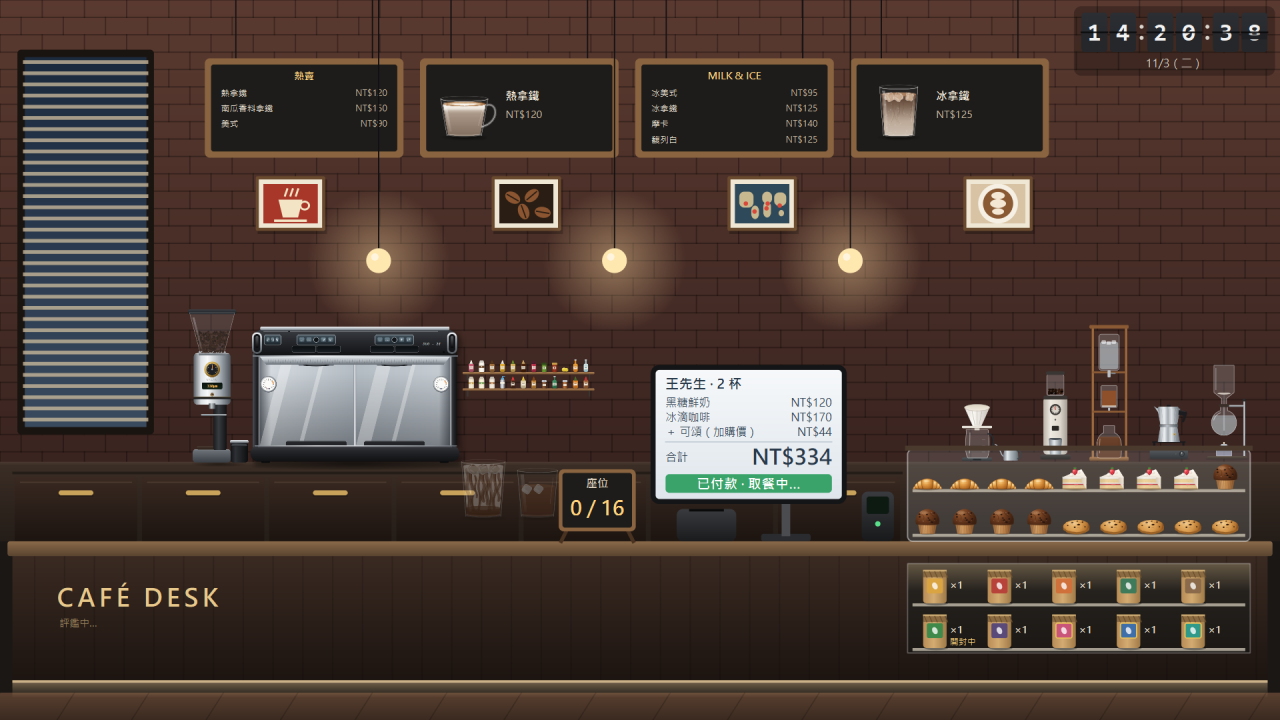
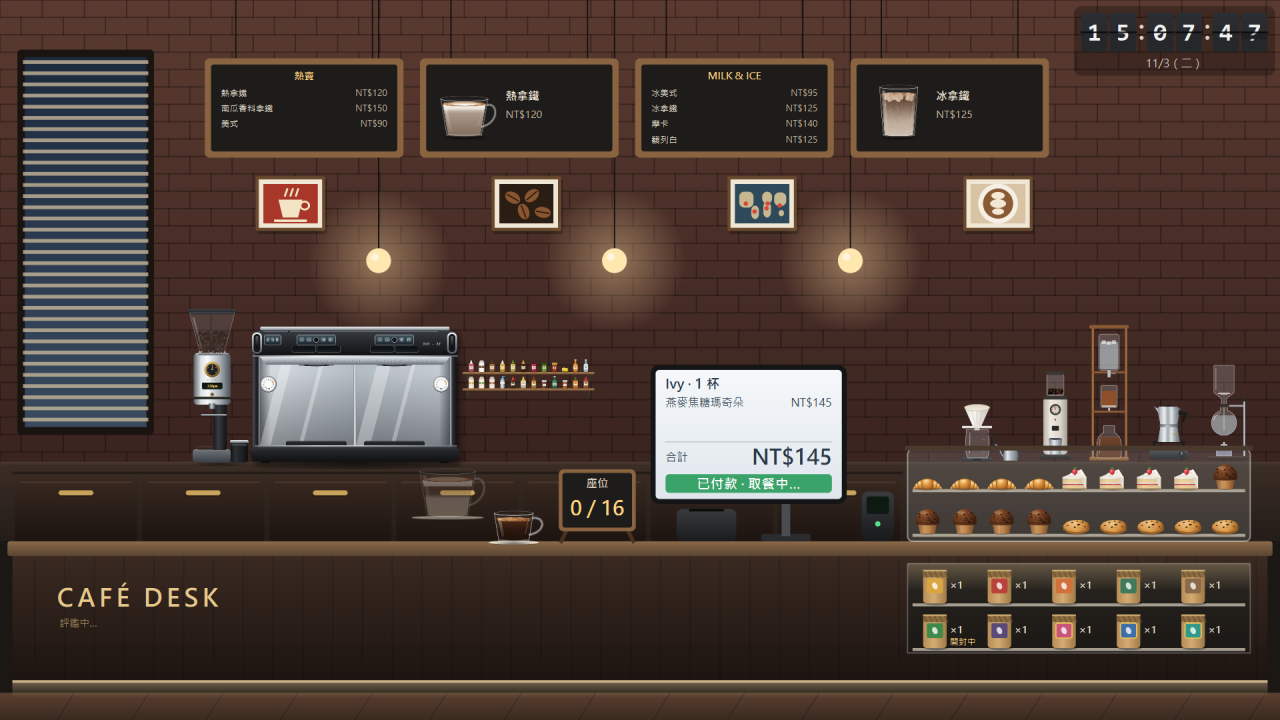
v1.7.1：修正英文 & 不顯示、熱可可品名翻譯、吊燈的線蓋到菜單看板；重拍櫃檯截圖

diff --git a/main.py b/main.py
@@ -1,5 +1,5 @@
 """
-桌上咖啡吧  Café Desk（舊名 Espresso Desk）  1.7.0
+桌上咖啡吧  Café Desk（舊名 Espresso Desk）  1.7.1
 ==============================================
 小咖啡機、磨豆機與各種器具，點一下就開始做咖啡，畫面與聲音會隨參數變化。預設是一般視窗；
 右鍵取消「視窗化顯示」就變成透明無邊框、直接站在桌面上的擺件（只有手動、自動模式；營業模式一律視窗化）。

diff --git a/cafe_desk/__init__.py b/cafe_desk/__init__.py
@@ -1,3 +1,3 @@
 """桌上咖啡吧 Café Desk：桌面咖啡機擺件"""
 # 版本號採 PEP 440（Beta 是 1.0.0b8 這種寫法）；改版本時同步更新 CHANGELOG.md、main.py docstring 與 CLAUDE.md 標題。
-__version__ = "1.7.0"
+__version__ = "1.7.1"

diff --git a/CHANGELOG.md b/CHANGELOG.md
@@ -2,7 +2,9 @@
 
 版本號採 PEP 440（`cafe_desk/__init__.py` 的 `__version__`）。git tag 用 `v1.0.0`、`v1.0.0-beta.8` 這種寫法。
 
-## 未發佈
+## 1.7.1
+
+2026-11-03。修正英文介面的文字顯示，以及吊燈的線蓋到菜單看板。
 
 ### 修正
 - 英文介面的選單、分頁、按鈕把文字裡的 & 當成快速鍵符號、沒有顯示出來（例如「Records & collection」）：英文一律改寫成 and。
